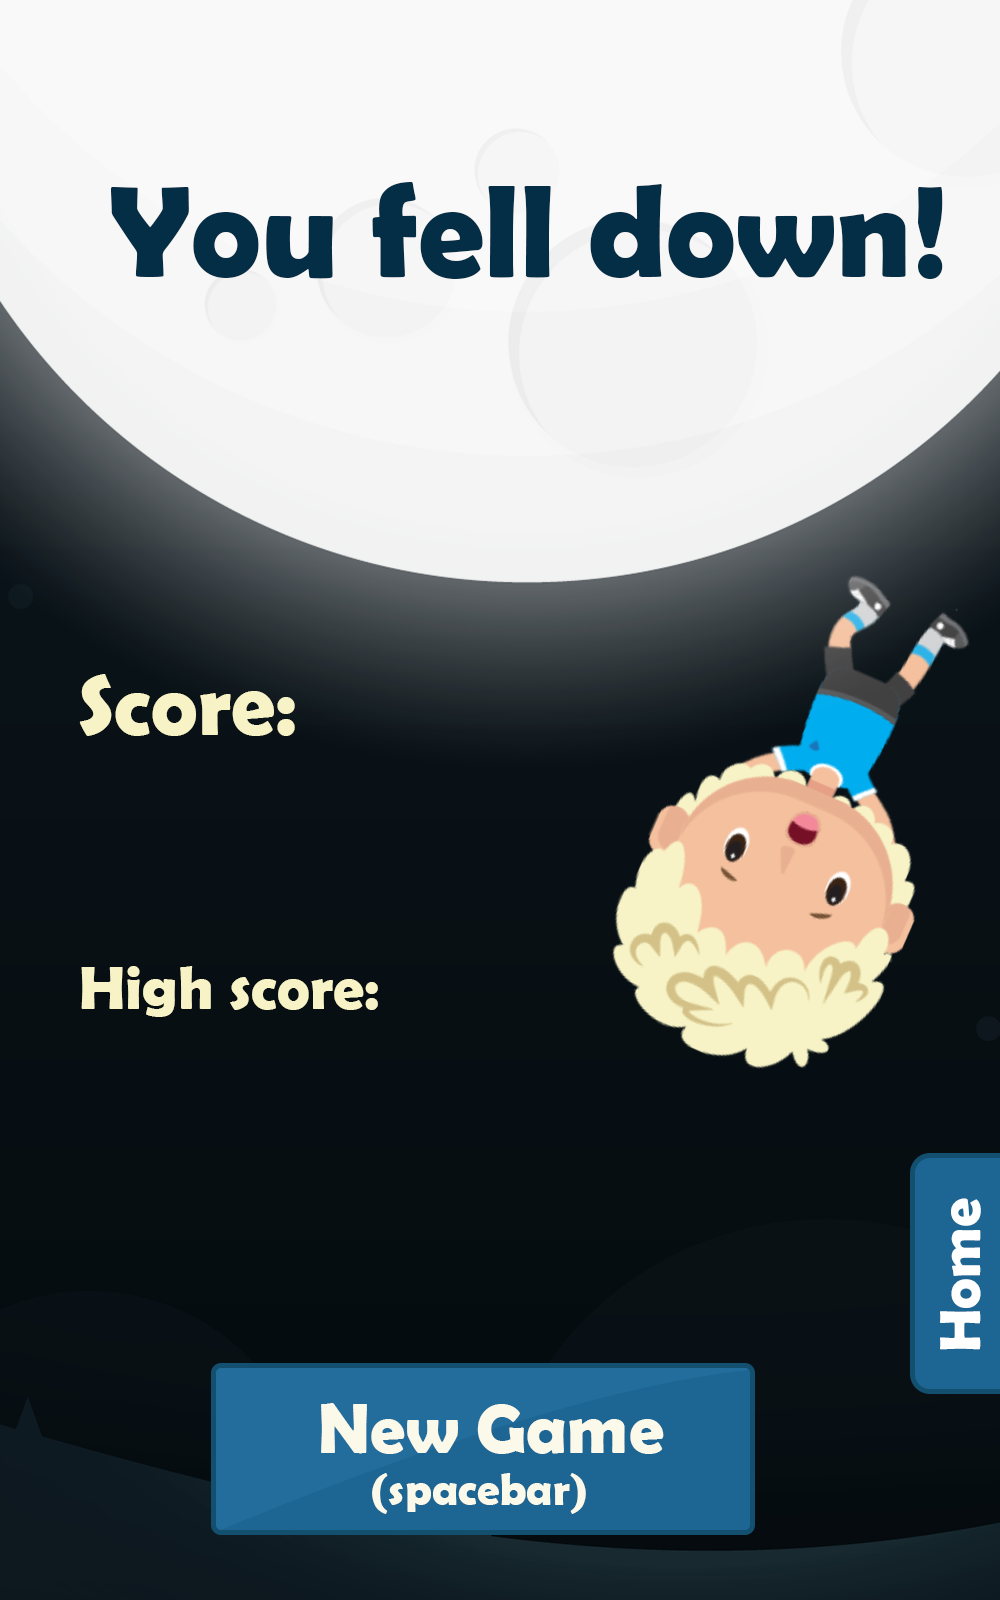
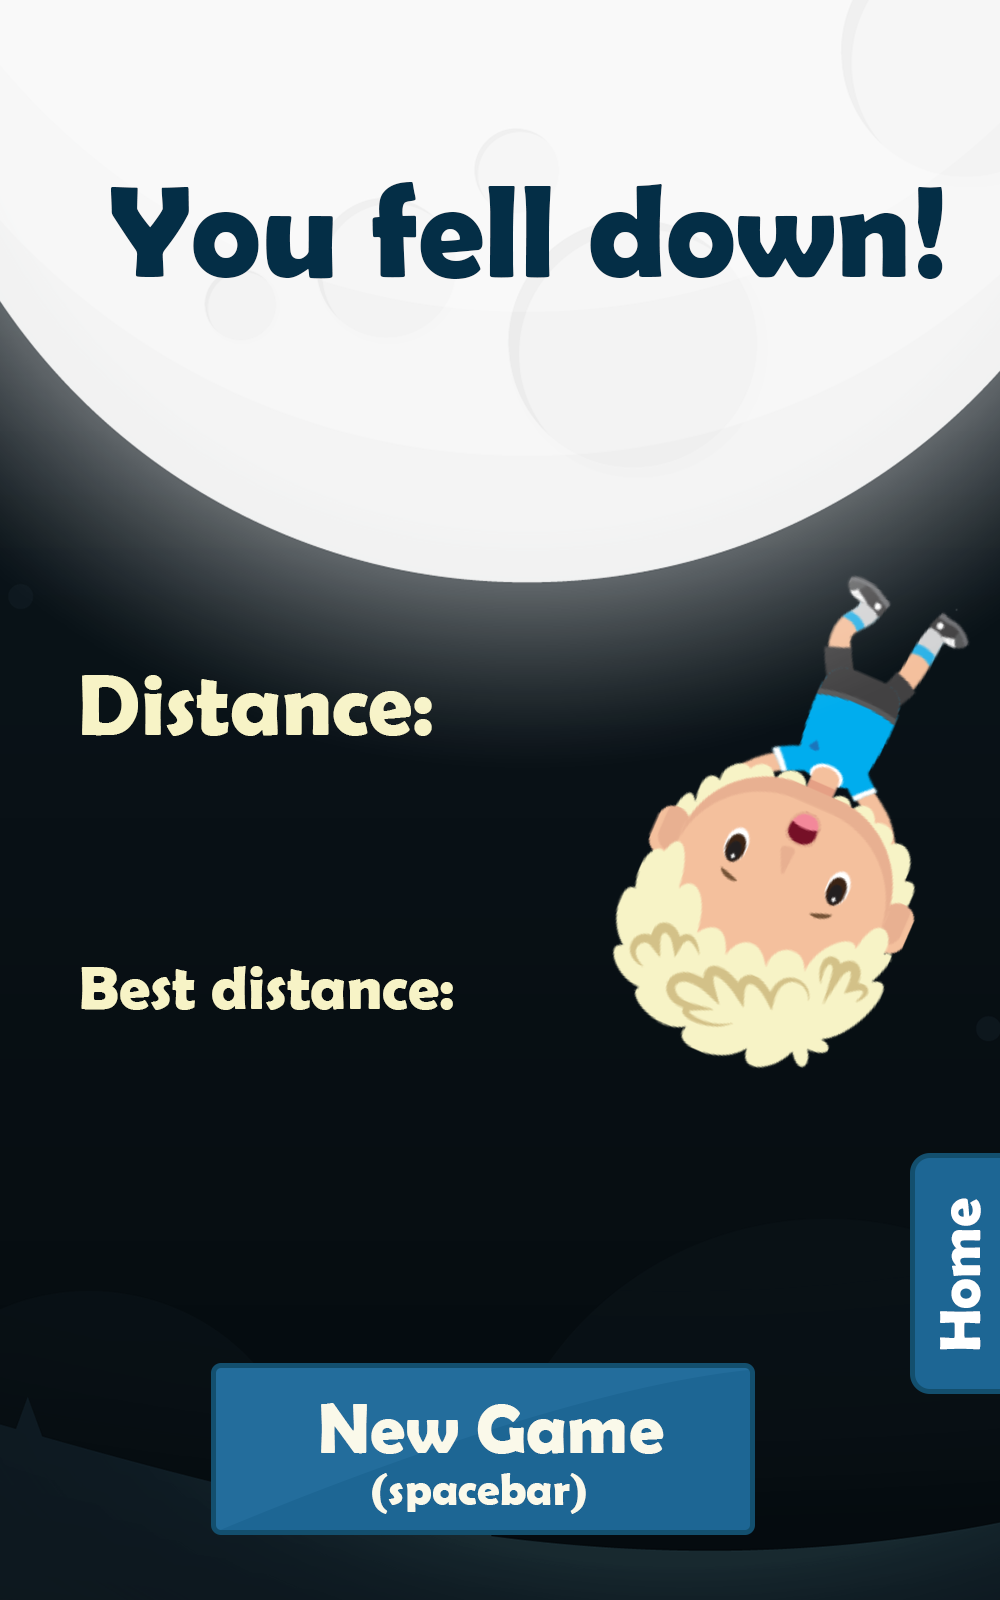
Extra screens, minor fixes

Changed region(s): [[0.093, 0.5938, 0.465, 0.6562], [0.062, 0.4062, 0.434, 0.4688]]

diff --git a/js/game.js b/js/game.js
@@ -23,17 +23,14 @@ let game = {
 game.init = () => {
   game.stage = new createjs.Stage('myCanvas');
   // getting cookies
-  game.cookies.forEach(o => {
-    if (o == "highScore") console.log()
-    game[o] = isNaN(getCookie(o)) ? 0 : new Number(getCookie(o));
-  });
+  game.cookies.forEach(o => game[o] = isNaN(getCookie(o)) ? 0 : new Number(getCookie(o)));
   game.load();
   createjs.Ticker.addEventListener('tick', game.onTick);
   createjs.Ticker.setFPS(60);
 }
 
 game.load = () => {
-  game.loading = new createjs.Text("Loading", "30px riffic", "#111");
+  game.loading = new createjs.Text("Loading", "40px riffic", "#fff");
   game.loading.textBaseline = "middle";
   game.loading.textAlign = "center";
   game.loading.x = game.stage.canvas.width / 2;
@@ -53,6 +50,8 @@ game.load = () => {
     { id: "startScreen", src: "graphics/start.png" },
     { id: "instructionsScreen", src: "graphics/instructions.png" },
     { id: "endScreen", src: "graphics/end.png" },
+    { id: "statsScreen", src: "graphics/stats.png" },
+    { id: "creditsScreen", src: "graphics/credits.png" },
     { id: "fredJump", src: "graphics/fredJump/fredJump.json", "type":"spritesheet" },
     { id: "platforms", src: "graphics/platforms/platforms.json", "type": "spritesheet" },
     { id: "spring", src: "graphics/spring/spring.json", "type": "spritesheet" },
@@ -92,7 +91,7 @@ game.start = () => {
 }
 
 game.createStats = () => {
-  game.stats = new createjs.Text("Score: " + game.score.toLocaleString(), "35px riffic", "#fdff66");
+  game.stats = new createjs.Text("", "35px riffic", "#fdff66");
   game.stats.y = 30;
   game.stage.addChild(game.stats);
 }
@@ -147,7 +146,7 @@ game.onTick = () => {
     game.player.jump();
     game.player.move();
     for (p of game.platforms.filter(o => o.type == "moving")) p.move();
-    game.stats.text = "Score: " + game.score.toLocaleString();
+    game.stats.text = "Distance: " + game.score.toLocaleString() + " m";
     game.stats.x = game.stage.canvas.width - game.stats.text.length * 18;
     game.stage.setChildIndex(game.stats, game.stage.getNumChildren()-1);
   }
@@ -161,25 +160,26 @@ game.showStartScreen = () => {
   screen.x = screen.y = 0;
   screen.scaleX = screen.scaleY = 0.5;
 
-  let hs = new createjs.Text(game.highScore.toLocaleString(), "30px riffic", "#fff");
+  let hs = new createjs.Text(game.highScore.toLocaleString() + " m", "30px riffic", "#fff");
   hs.y = 500;
   hs.x = 40;
 
   let startBtn = new createjs.Shape();
-  startBtn.graphics.beginFill("#fff").drawRect(0, 0, 268, 83);
+  startBtn.graphics.beginFill("#fff").drawRect(108, 683, 268, 83);
   startBtn.alpha = 0.01;
-  startBtn.x = 108;
-  startBtn.y = 683;
   startBtn.addEventListener('click', game.start);
 
   let instructionsBtn = new createjs.Shape();
-  instructionsBtn.graphics.beginFill("#fff").drawRect(0, 0, 140, 138);
+  instructionsBtn.graphics.beginFill("#fff").drawRect(0, 42, 140, 138);
   instructionsBtn.alpha = 0.01;
-  instructionsBtn.x = 0;
-  instructionsBtn.y = 42;
   instructionsBtn.addEventListener('click', game.showInstructionsScreen);
 
-  game.stage.addChild(screen, hs, startBtn, instructionsBtn);
+  let statsBtn = new createjs.Shape();
+  statsBtn.graphics.beginFill("#fff").drawCircle(455, 25, 70);
+  statsBtn.alpha = 0.01;
+  statsBtn.addEventListener('click', game.showStatsScreen);
+
+  game.stage.addChild(screen, hs, startBtn, instructionsBtn, statsBtn);
 }
 
 game.showInstructionsScreen = () => {
@@ -190,19 +190,79 @@ game.showInstructionsScreen = () => {
   screen.scaleX = screen.scaleY = 0.5;
 
   let startBtn = new createjs.Shape();
-  startBtn.graphics.beginFill("#fff").drawRect(0, 0, 268, 83);
+  startBtn.graphics.beginFill("#fff").drawRect(108, 683, 268, 83);
   startBtn.alpha = 0.01;
-  startBtn.x = 108;
-  startBtn.y = 683;
   startBtn.addEventListener('click', game.start);
 
   let homeBtn = new createjs.Shape();
-  homeBtn.graphics.beginFill("#fff").drawRect(0, 0, 100, 70);
+  homeBtn.graphics.beginFill("#fff").drawRect(400, 0, 100, 70);
   homeBtn.alpha = 0.01;
-  homeBtn.x = 400;
-  homeBtn.y = 0;
   homeBtn.addEventListener('click', game.showStartScreen);
+
+  game.creditsBtn = new createjs.Shape();
+  game.creditsBtn.graphics.beginFill("#fff").drawRect(55, 0, 165, 30);
+  game.creditsBtn.alpha = 0.01;
+  game.creditsBtn.addEventListener('click', game.showCreditsScreen);
+
+  game.stage.addChild(screen, startBtn, homeBtn, game.creditsBtn);
+}
+
+game.showCreditsScreen = () => {
+  game.stage.removeAllChildren();
+
+  let screen = new createjs.Bitmap(game.queue.getResult('creditsScreen'));
+  screen.x = screen.y = 0;
+  screen.scaleX = screen.scaleY = 0.5;
+
+  let startBtn = new createjs.Shape();
+  startBtn.graphics.beginFill("#fff").drawRect(108, 683, 268, 83);
+  startBtn.alpha = 0.01;
+  startBtn.addEventListener('click', game.start);
+
+  let homeBtn = new createjs.Shape();
+  homeBtn.graphics.beginFill("#fff").drawRect(400, 0, 100, 70);
+  homeBtn.alpha = 0.01;
+  homeBtn.addEventListener('click', game.showInstructionsScreen);
+
   game.stage.addChild(screen, startBtn, homeBtn);
+}
+
+game.showStatsScreen = () => {
+  game.stage.removeAllChildren();
+
+  let screen = new createjs.Bitmap(game.queue.getResult('statsScreen'));
+  screen.x = screen.y = 0;
+  screen.scaleX = screen.scaleY = 0.5;
+
+  let startBtn = new createjs.Shape();
+  startBtn.graphics.beginFill("#fff").drawRect(108, 683, 268, 83);
+  startBtn.alpha = 0.01;
+  startBtn.addEventListener('click', game.start);
+
+  let homeBtn = new createjs.Shape();
+  homeBtn.graphics.beginFill("#fff").drawRect(400, 0, 100, 70);
+  homeBtn.alpha = 0.01;
+  homeBtn.addEventListener('click', game.showStartScreen);
+
+  let totalDstKm = Math.round(game.totalScore / 10) / 100;
+  let statsTxt = "\nTotal distance: " + totalDstKm.toLocaleString() + " km";
+  statsTxt += "\nBest distance: " + game.highScore.toLocaleString() + " m";
+  statsTxt += "\nLast game distance: " + game.lastScore.toLocaleString() + " m";
+
+  statsTxt += "\n\nGames Played: " + game.gamesPlayed.toLocaleString();
+  statsTxt += "\nTotal time played: " + msToTime(game.totalTime);
+  statsTxt += "\nLast game duration: " + msToTime(game.lastTime);
+  statsTxt += "\nAverage game duration: " + msToTime(game.totalTime / game.gamesPlayed);
+
+  statsTxt += "\n\nTotal platforms jumped: " + game.totalPlatforms.toLocaleString();
+  statsTxt += "\nPlatforms jumped in last game: " + game.lastPlatforms.toLocaleString();
+
+  let stats = new createjs.Text(statsTxt, "18px riffic", "#fff");
+  stats.lineHeight = 30;
+  stats.y = 250;
+  stats.x = 60;
+
+  game.stage.addChild(screen, startBtn, homeBtn, stats);
 }
 
 game.showEndScreen = () => {
@@ -212,27 +272,24 @@ game.showEndScreen = () => {
   screen.x = screen.y = 0;
   screen.scaleX = screen.scaleY = 0.5;
 
-  let s = new createjs.Text(game.score.toLocaleString(), "30px riffic", "#fff");
+  let s = new createjs.Text(game.score.toLocaleString() + " m", "30px riffic", "#fff");
   s.y = 375;
   s.x = 50;  
   
-  let hs = new createjs.Text(game.highScore.toLocaleString(), "30px riffic", "#fff");
+  let hs = new createjs.Text(game.highScore.toLocaleString() + " m", "30px riffic", "#fff");
   hs.y = 515;
   hs.x = 50;
 
   let startBtn = new createjs.Shape();
-  startBtn.graphics.beginFill("#fff").drawRect(0, 0, 268, 83);
+  startBtn.graphics.beginFill("#fff").drawRect(108, 683, 268, 83);
   startBtn.alpha = 0.01;
-  startBtn.x = 108;
-  startBtn.y = 683;
   startBtn.addEventListener('click', game.start);
 
   let homeBtn = new createjs.Shape();
-  homeBtn.graphics.beginFill("#fff").drawRect(0, 0, 50, 120);
+  homeBtn.graphics.beginFill("#fff").drawRect(456, 577, 50, 120);
   homeBtn.alpha = 0.01;
-  homeBtn.x = 456;
-  homeBtn.y = 577;
   homeBtn.addEventListener('click', game.showStartScreen);
+
   game.stage.addChild(screen, startBtn, homeBtn, hs, s);
 }
 
@@ -243,7 +300,7 @@ game.keyDown = e => {
       case 39: game.keys.right = true; break;
     }
   } else if (e.keyCode == 32) game.start();
-  else if (e.keyCode == 77) createjs.Sound.muted = !createjs.Sound.muted;
+  if (e.keyCode == 77) createjs.Sound.muted = !createjs.Sound.muted;
 }
 
 game.keyUp = e => {

diff --git a/js/Platform.js b/js/Platform.js
@@ -14,6 +14,7 @@ class Platform extends createjs.Sprite {
     this.dir = "right";
     let platforms = game.platforms.length;
     this.level = level;
+    this.speed = Math.random() * this.level.platformMovingSpeed;
     if (platforms > 0) {
       let l = game.platforms[platforms - 1];
       this.y = l.y - this.height - Math.random() * (game.maxSpeed * level.rarity);
@@ -39,17 +40,16 @@ class Platform extends createjs.Sprite {
   }
 
   move() {
-    let speed = Math.random() * this.level.platformMovingSpeed;
     if (this.dir == "right") {
       if (this.x < game.stage.canvas.width - this.width) {
-        this.x += speed;
-        if (this.powerup != undefined) this.powerup.x += speed;
+        this.x += this.speed;
+        if (this.powerup != undefined) this.powerup.x += this.speed;
       }
       else this.dir = "left";
     } else {
       if (this.x > 0) {
-       this.x -= speed;
-       if (this.powerup != undefined) this.powerup.x -= speed;
+       this.x -= this.speed;
+       if (this.powerup != undefined) this.powerup.x -= this.speed;
       }
       else this.dir = "right";
     }

diff --git a/css/style.css b/css/style.css
@@ -15,13 +15,13 @@ body, html {
   #myCanvas {
     height: 100vh;
     width: 62.5vh;
-    background-color: #fff;
+    background-color: #111e26;
   }
 }
 @media (orientation: portrait) {
   #myCanvas {
     width: 100vw;
     height: 160vw;
-    background-color: #fff;
+    background-color: #111e26;
   }
 }
